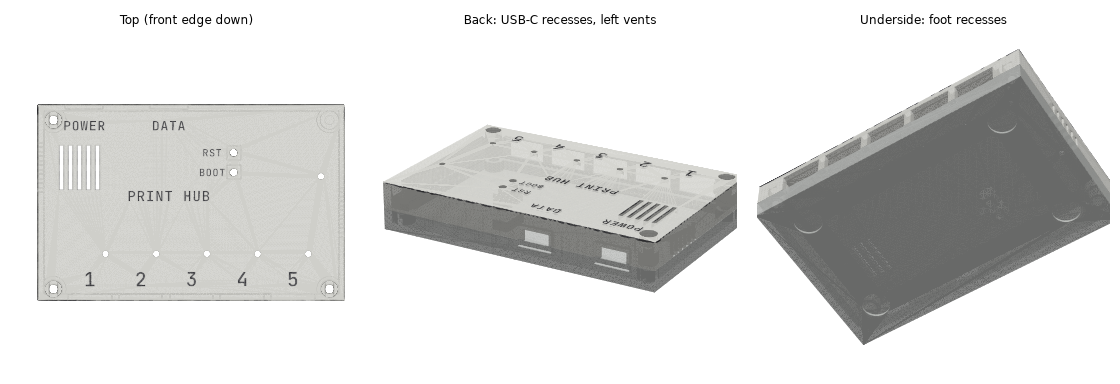
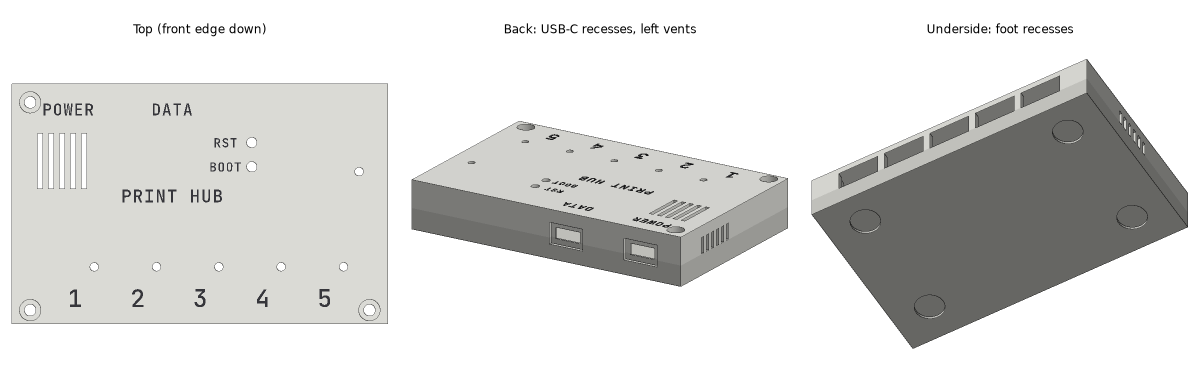
print-hub v1: route on the outer layers only (inner layers are planes)
Claude-Session: https://claude.ai/code/session_01AiCo3BFL3vgJ9qSJmY4RFn

diff --git a/print-hub/v1/src/pipeline.py b/print-hub/v1/src/pipeline.py
@@ -33,6 +33,12 @@ def run(work, passes=int(os.environ.get('PASSES', 40))):
     # Freerouting 1.9.0: 2.5.0 stalled on this board with 13 connections
     # left (17 Oct 2026), the way 2.x stalled on Ridge 3 Lite
     route.FR2 = None
+    # the two inner layers are planes (ground, 5 V): marked as power layers
+    # in the copy Freerouting sees, so it routes only on F.Cu and B.Cu
+    def planes_only(b):
+        for l in (pcbnew.In1_Cu, pcbnew.In2_Cu):
+            b.SetLayerType(l, pcbnew.LT_POWER)
+    route.PRE_EXPORT = planes_only
     left = route.route(placed, routed, passes=passes, rounds=4)
     log('  unrouted after Freerouting: %d' % left)
     pcb.write_rules(routed)

diff --git a/print-hub/v1/mechanical/enclosure/enclosure.py b/print-hub/v1/mechanical/enclosure/enclosure.py
@@ -205,7 +205,7 @@ TEXT_LABEL_Y = -28.0
 TEXT_BUTTON_SIZE = 3.6       # RST / BOOT
 TEXT_TITLE = 'PRINT HUB'
 TEXT_TITLE_SIZE = 5.0
-TEXT_TITLE_AT = (-8.0, -3.0)
+TEXT_TITLE_AT = (0.0, 0.0)     # centre of the lid
 
 # Rubber feet: recesses in the bottom for 10 mm self-adhesive bumpers
 FOOT_D = 10.6
